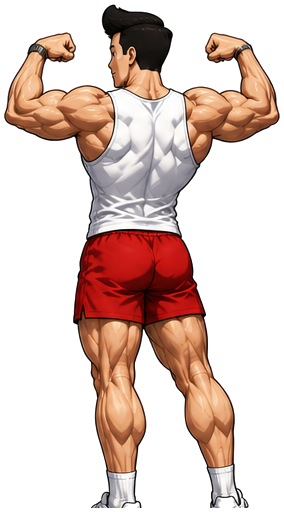
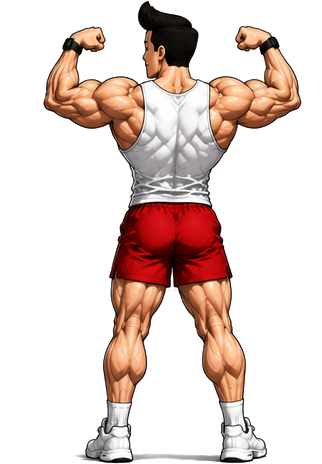
Pro のイラストを新しい8枚に差し替え

diff --git a/pro.html b/pro.html
@@ -63,7 +63,7 @@
         </div>
         <div class="figure">
           <div class="plate"></div>
-          <img src="img/pro/backfull.png" alt="背中を見せる yoisho のキャラクター">
+          <img src="img/pro/backfull.png" alt="背中を見せて立つ yoisho のキャラクター">
         </div>
       </div>
     </div>
@@ -85,7 +85,7 @@
           </div>
         </div>
         <div class="fcard">
-          <img src="img/pro/towel.png" alt="">
+          <img src="img/pro/curl.png" alt="">
           <div>
             <span class="no">02</span>
             <h3>種目ごとの推移</h3>
@@ -109,7 +109,7 @@
           </div>
         </div>
         <div class="fcard">
-          <img src="img/pro/backfull.png" alt="">
+          <img src="img/pro/armscross.png" alt="">
           <div>
             <span class="no">05</span>
             <h3>アクセントカラーを変える</h3>
@@ -232,7 +232,7 @@
       <div>
         <p class="sec-eyebrow">05 — FAQ</p>
         <h2>Pro についての<br>よくある質問</h2>
-        <img class="faq-fig" src="img/pro/stand.png" alt="腰に手をあてた yoisho のキャラクター">
+        <img class="faq-fig" src="img/pro/kneel.png" alt="片膝をついた yoisho のキャラクター">
       </div>
       <div class="qa">
         <div class="q">
@@ -268,7 +268,7 @@
         </div>
       </div>
       <div class="stand">
-        <img src="img/pro/towel.png" alt="タオルを肩にかけた yoisho のキャラクター">
+        <img src="img/pro/squatlow.png" alt="しゃがんだ yoisho のキャラクター">
       </div>
     </div>
   </div>
